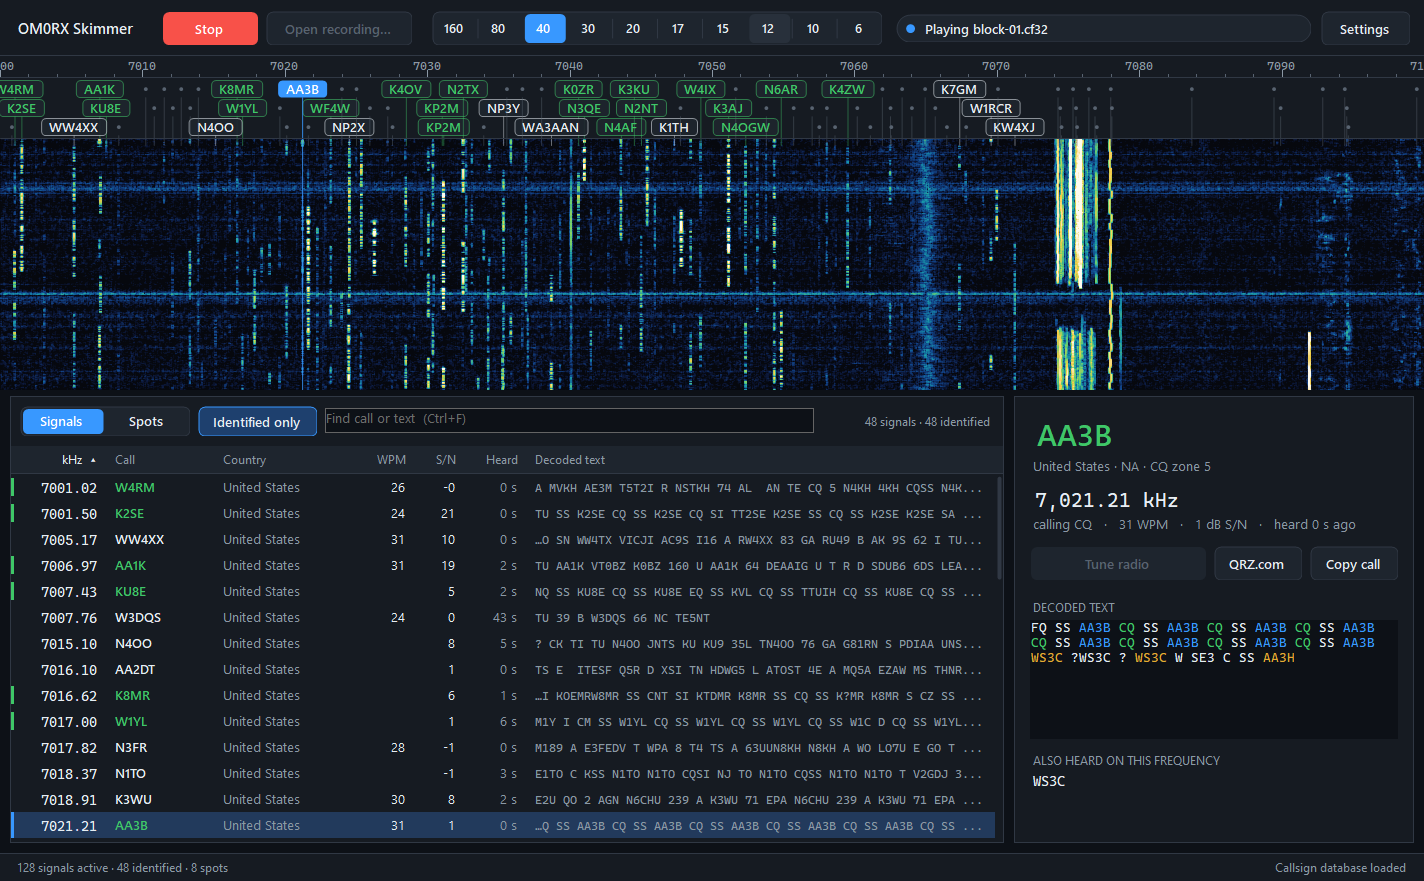
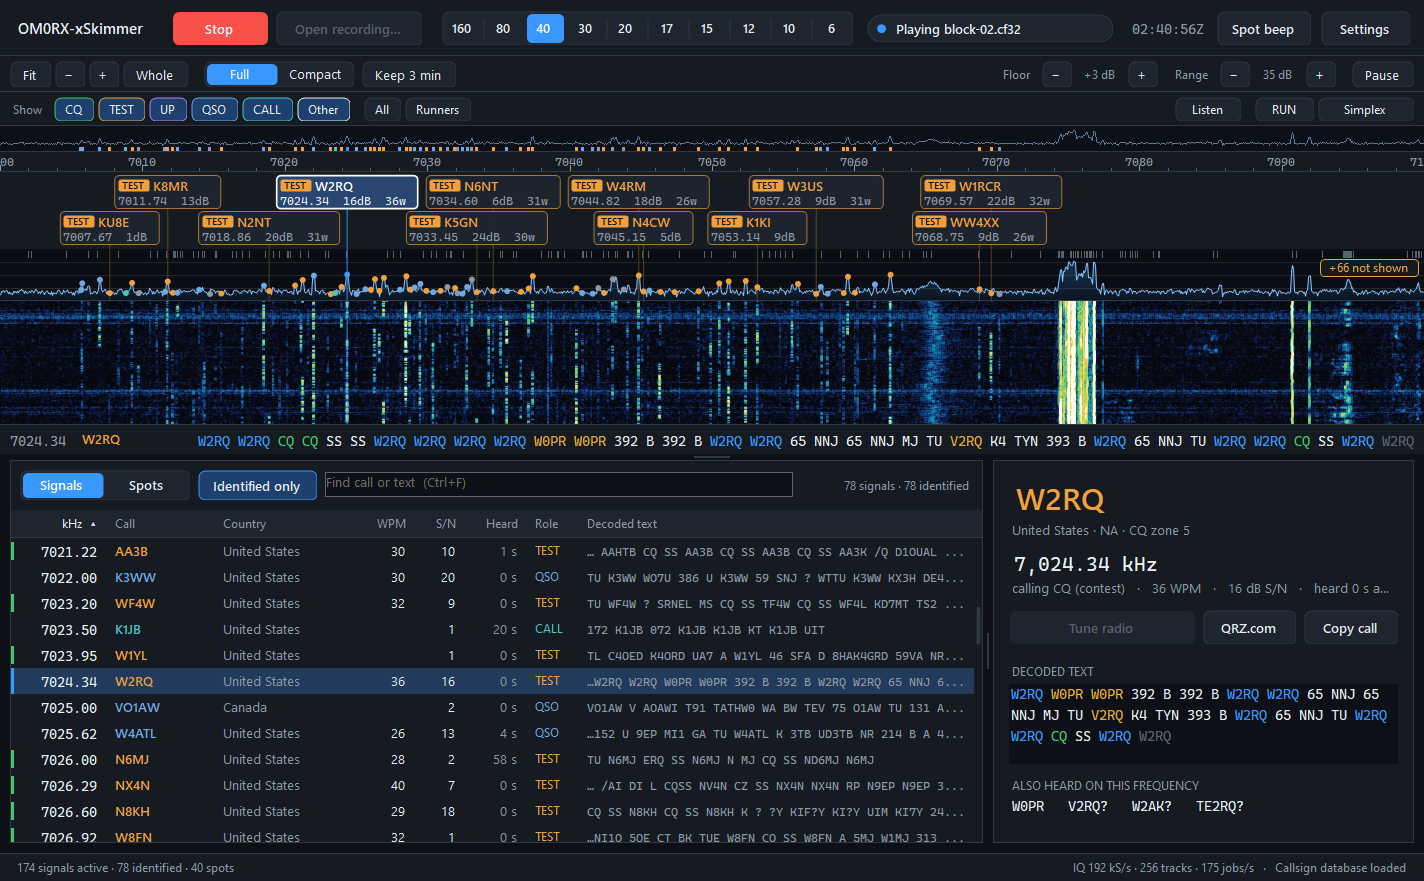
Publish OM0RX-xSkimmer 0.9.0
Release entry, download links, new feature list and screenshots
(main window with live decoder strip, listening, RUN mode).

diff --git a/apps/xskimmer.md b/apps/xskimmer.md
@@ -5,31 +5,50 @@ IQ, finds every CW signal, decodes each one with the DeepCW neural model, works
 out who is calling CQ, and shows it all on a band map, a signal list and a spot
 list.
 
-![OM0RX-xSkimmer](../images/xskimmer-main.png)
+![OM0RX-xSkimmer: band map with station roles, live decoder strip and signal list](../images/xskimmer-main.png)
 
 ## What it does
 
+- **Every CW signal, decoded.** The DeepCW neural model copies each signal in
+  the passband. A band map shows the whole span: an overview strip, station
+  tags with call, frequency, S/N and speed, a spectrum trace with your RX
+  marker, and the waterfall. A live decoder strip under the map shows the copy
+  of the signal you follow as it arrives.
+- **Who is doing what.** Each station is tagged from what it sends: **CQ**,
+  **TEST** (contest CQ), **UP** (split), **QSO**, **CALL** (answering someone)
+  or beacon. One click on the Show bar filters the map and the lists, for
+  example to runners only. Calls read only once are shown dashed with a `?`.
+- **RUN mode for contests.** When you are calling CQ, xSkimmer shows only the
+  stations calling you around your transmit frequency, decodes them first, and
+  puts each call heard there on its own tag. Click a caller to put the second
+  receiver (TCI VFO B, FLEX second slice) on it; double-click to send the call
+  to [xLog](xlog.md)'s entry field.
+- **Listen in the app.** Click any signal and hear it through a sound card of
+  your choice: CW, USB, LSB, AM or FM, with filter, pitch, volume, noise
+  blanker and noise reduction. The radio stays where it is.
 - **FlexRadio without using a receiver slot:** binds to SmartSDR or Maestro as
-  an API client and skims that client's own panadapter through DAX IQ. Coverage
-  follows your panadapter.
+  an API client and skims that client's own panadapter through DAX IQ.
 - **TCI radios:** SunSDR (ExpertSDR), ANAN (Thetis) and any radio behind
   AetherSDR's TCI server.
-- **Click to tune:** click a signal in the list or band map to put your slice
-  on it.
-- **SDC-style spot verification:** copies required against MASTER.SCP, minimum
-  S/N, re-spot interval, your own master file and blacklist.
-- **Spots everywhere:** a local telnet server (RBN-style comments) for your
-  logger, an optional remote DX cluster, and the radio's own panadapter.
-- **Decoded text for xLog:** the copy of the signal you are tuned to appears
-  in [xLog](xlog.md), locally or through [xAgent](xagent.md) for remote
-  operation.
-- **Callsign data that maintains itself:** MASTER.SCP, Club Log, LoTW activity
-  and cty.dat download automatically and refresh daily.
+- **Spots everywhere:** a local telnet server for your logger, an optional
+  HEARD port, a remote DX cluster, the radio's own panadapter, and a Skimmer
+  Server compatible port for the **RBN Aggregator** to feed the Reverse Beacon
+  Network. Optional **RBN Reference** checks calls against live RBN spots to
+  drop busted ones.
+- **N1MM Logger+:** the skimmer's spectrum appears in N1MM+'s Spectrum Display.
+- **Verification and health:** SDC-style spot verification against MASTER.SCP,
+  a Diagnostics page (IQ rate, decoder load, ports), and callsign data that
+  downloads and refreshes itself.
+
+| | |
+|---|---|
+| ![Listening in the app on N2NT, with the live copy under the map](../images/xskimmer-listen.png) | ![RUN mode: the stations calling around the run frequency](../images/xskimmer-run.png) |
+| Listening in CW on N2NT, with its copy in the decoder strip | RUN mode: W0PR calling W2RQ, zoomed on the run window |
 
 ## Download
 
 <!-- xsuite:downloads -->
-- **Windows:** not published yet
+- **Windows** — 0.9.0: [installer](https://github.com/oliverbross/OM0RX-xSuite/releases/download/xskimmer-v0.9.0/OM0RX-xSkimmer-0.9.0-setup.exe) 57 MB
 <!-- /xsuite:downloads -->
 
 Requires Windows 10/11 x64 and a FlexRadio (SmartSDR or Maestro running) or a
@@ -39,5 +58,7 @@ keeps your settings.
 ## Release history
 
 <!-- xsuite:history -->
-No releases yet.
+| Version | Date | Platforms | Notes | Source |
+|---|---|---|---|---|
+| 0.9.0 | 2026-11-21 | Windows | [release notes](https://github.com/oliverbross/OM0RX-xSuite/releases/tag/xskimmer-v0.9.0) | [source ZIP](https://github.com/oliverbross/OM0RX-xSuite/releases/download/xskimmer-v0.9.0/OM0RX-xSkimmer-0.9.0-source.zip) `21ceb62fe7` |
 <!-- /xsuite:history -->

diff --git a/README.md b/README.md
@@ -13,7 +13,7 @@ published here.
 |---|---|---|:---:|:---:|:---:|
 | <img src="images/xlog-icon.png" width="40" alt=""> | [**OM0RX-xLog**](apps/xlog.md) | Local-first logbook with an Operator Desk, world and band maps, cluster, Wavelog sync, contesting and station control. | [**1.6.74**](https://github.com/oliverbross/OM0RX-xSuite/releases/download/xlog-v1.6.74/OM0RX-xLog-1.6.74-windows-x86_64-current-user-setup.exe) | [**1.6.77**](https://github.com/oliverbross/OM0RX-xSuite/releases/download/xlog-v1.6.77/OM0RX-xLog-1.6.77-macOS-arm64.zip) | [**1.6.0**](https://github.com/oliverbross/OM0RX-xSuite/releases/download/xlog-v1.6.0/OM0RX-xLog-1.6.0-Linux-x64.deb) |
 |  | [**OM0RX-xNexus**](apps/xnexus.md) | Nexus (by KD9TAW) set up beside xLog: FT8/FT4 and ten more modes, with xLog's call and DXCC status in the roster. | [**1.25.0-xlog.17**](https://github.com/oliverbross/OM0RX-xSuite/releases/download/xnexus-v1.25.0-xlog.17/OM0RX-xNexus_1.25.0-xlog.17_x64-setup.exe) | soon | soon |
-|  | [**OM0RX-xSkimmer**](apps/xskimmer.md) | CW skimmer for FlexRadio and TCI radios: decodes every CW signal in the passband with a neural decoder and spots CQs. | soon | — | — |
+|  | [**OM0RX-xSkimmer**](apps/xskimmer.md) | CW skimmer for FlexRadio and TCI radios: decodes every CW signal with a neural decoder, tags who is calling whom, and adds RUN mode, RBN feed and in-app listening. | [**0.9.0**](https://github.com/oliverbross/OM0RX-xSuite/releases/download/xskimmer-v0.9.0/OM0RX-xSkimmer-0.9.0-setup.exe) | — | — |
 |  | [**OM0RX-xAgent**](apps/xagent.md) | Remote Station Agent: runs beside the radio, owns the FLEX-8400, KPA500 and KAT500, and serves the station to remote clients. | soon | — | — |
 | <img src="images/xcat-icon.png" width="40" alt=""> | [**OM0RX-xCat**](apps/xcat.md) | Mac FlexRadio CAT and RigCtlD bridge with SmartLink, station monitor, RUMlog spots and rotator control. | — | [**0.5.1**](https://github.com/oliverbross/OM0RX-xSuite/releases/download/xcat-v0.5.1/OM0RX-xCat-v0.5.1-macOS.zip) | — |
 | <img src="images/xcluster-icon.png" width="40" alt=""> | [**OM0RX-xCluster**](apps/xcluster.md) | Mac DX-cluster client that classifies spots against your log and hands them to xLog or RUMlogNG. | — | [**0.1.6**](https://github.com/oliverbross/OM0RX-xSuite/releases/download/xcluster-v0.1.6/OM0RX-xCluster-0.1.6-macOS.zip) | — |
@@ -60,9 +60,11 @@ xLog. [More about xNexus →](apps/xnexus.md)
 ### OM0RX-xSkimmer — CW skimmer
 
 Takes the wideband IQ from a FlexRadio or a TCI radio (SunSDR, ANAN,
-AetherSDR), finds and decodes every CW signal with a neural decoder, works out
-who is calling CQ and spots them to your logger, a cluster or the radio's
-panadapter. [More about xSkimmer →](apps/xskimmer.md)
+AetherSDR), finds and decodes every CW signal with a neural decoder, and tags
+each station as CQ, TEST, UP, QSO or caller. It spots to your logger, a
+cluster, the RBN or the radio's panadapter, has a RUN mode that shows who is
+calling you, and lets you listen to any signal in the app.
+[More about xSkimmer →](apps/xskimmer.md)
 
 ![OM0RX-xSkimmer](images/xskimmer-main.png)
 
